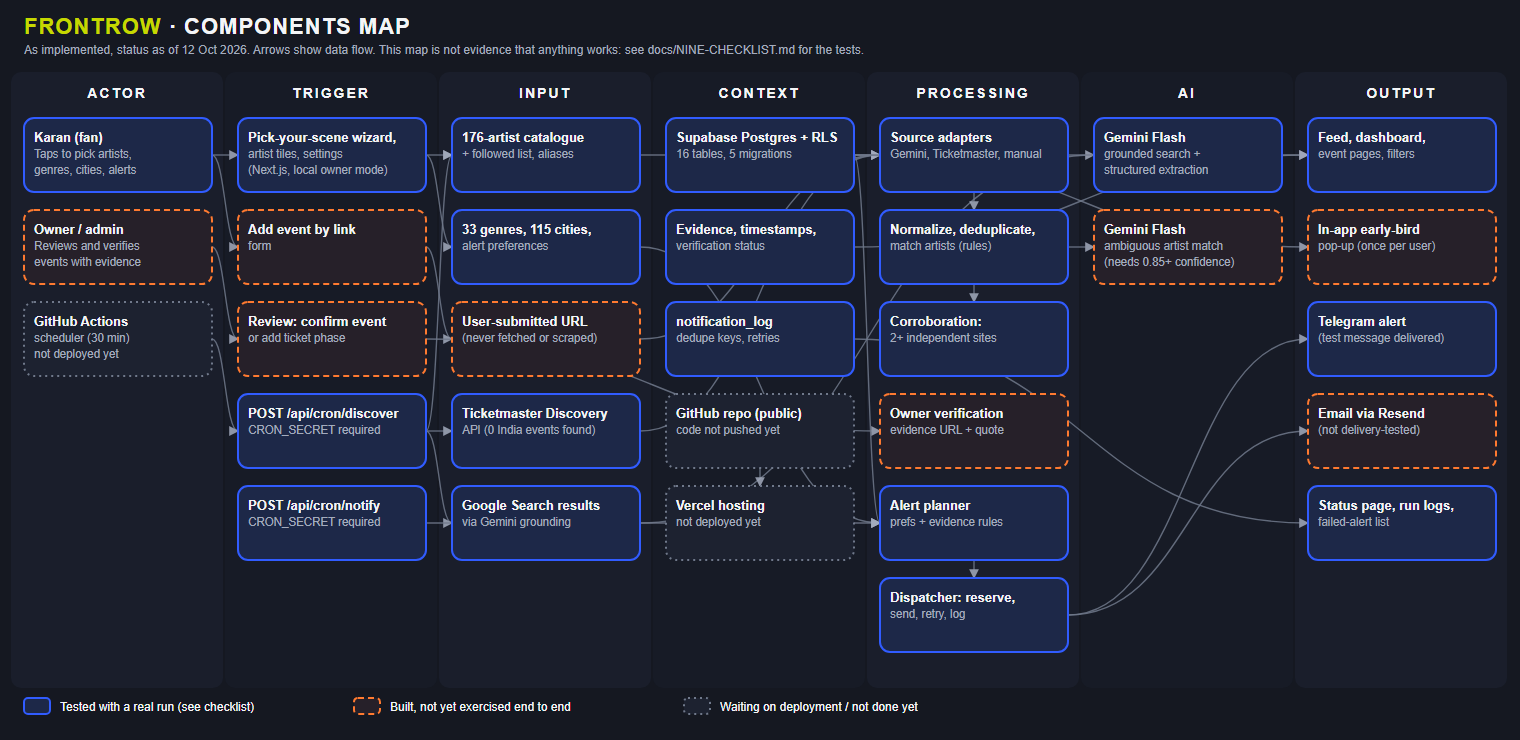
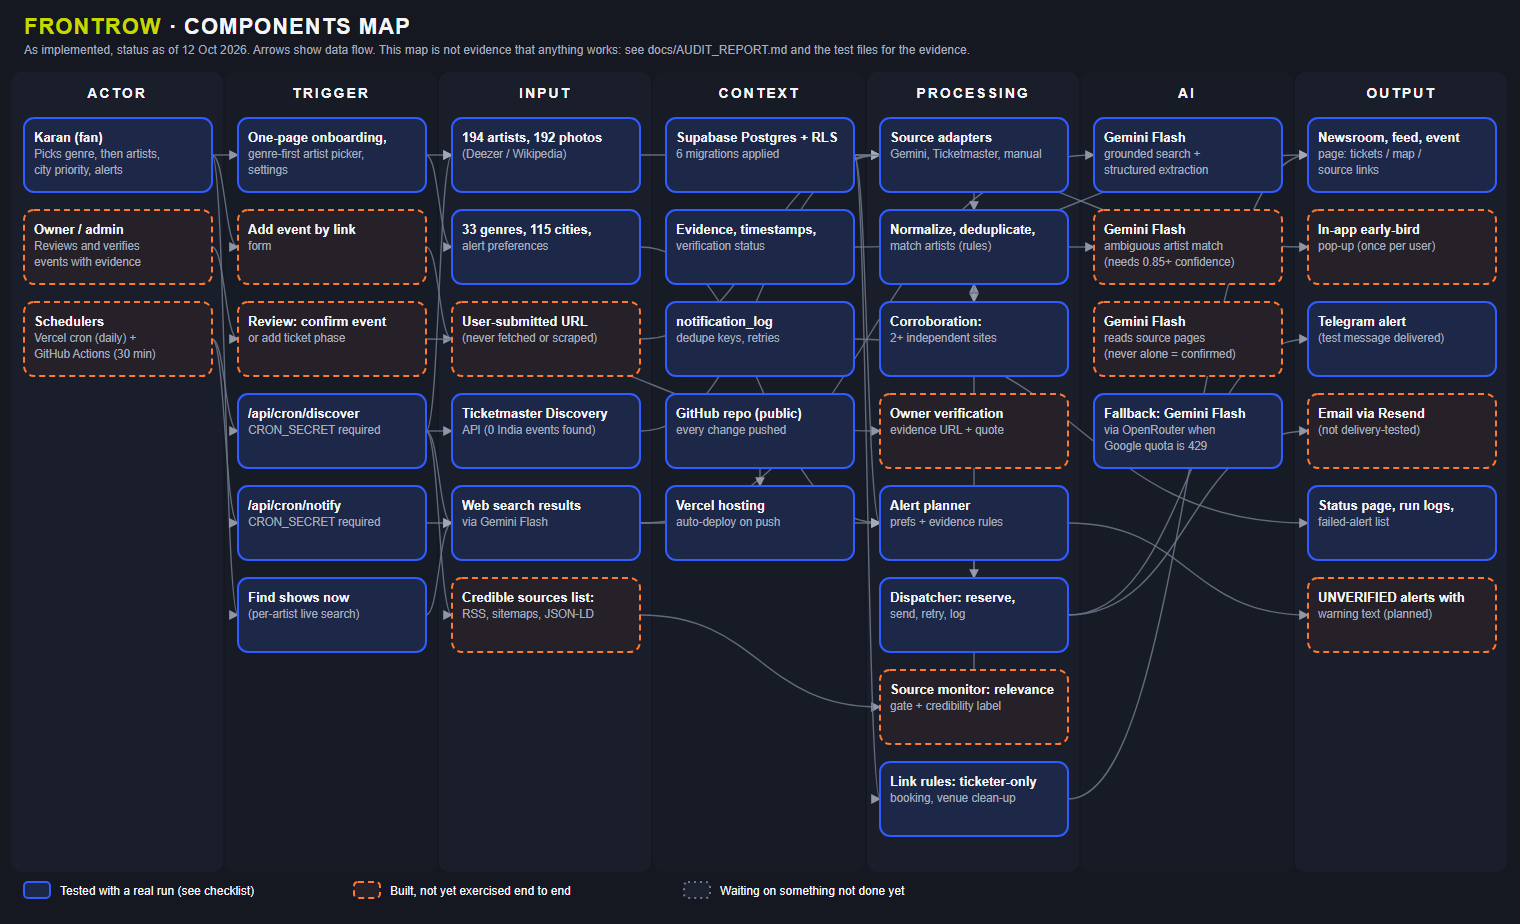
Light theme, unverified-show alerts, tick endpoint, calendar and share, refreshed map

diff --git a/src/app/globals.css b/src/app/globals.css
@@ -13,6 +13,33 @@
   --slate: #70798b;
   --slate-text: #a3abbd; /* slate lightened for small text contrast (AA on charcoal) */
   --line: #272c3a;
+  --ink: #0c0e13; /* dark text for use ON lime/orange, the same in both themes */
+}
+
+/* Light theme: chosen with the toggle, or by the device when nothing is chosen. */
+:root[data-theme="light"] {
+  --charcoal: #f7f5ef;
+  --surface: #ffffff;
+  --surface-2: #ece9e0;
+  --cobalt-soft: #2447d8;
+  --offwhite: #14171f;
+  --slate: #5a6275;
+  --slate-text: #4b5365;
+  --line: #d8d4c8;
+  color-scheme: light;
+}
+@media (prefers-color-scheme: light) {
+  :root:not([data-theme="dark"]) {
+    --charcoal: #f7f5ef;
+    --surface: #ffffff;
+    --surface-2: #ece9e0;
+    --cobalt-soft: #2447d8;
+    --offwhite: #14171f;
+    --slate: #5a6275;
+    --slate-text: #4b5365;
+    --line: #d8d4c8;
+    color-scheme: light;
+  }
 }
 
 @theme inline {
@@ -27,12 +54,14 @@
   --color-slate: var(--slate);
   --color-slate-text: var(--slate-text);
   --color-line: var(--line);
+  --color-ink: var(--ink);
   --font-sans: var(--font-body);
 }
 
 html {
   color-scheme: dark;
 }
+:root[data-theme="light"] body { background-image: none; }
 
 body {
   background: var(--charcoal);
@@ -65,7 +94,7 @@ h1, h2, h3, .display {
   .btn {
     @apply inline-flex min-h-9 items-center justify-center gap-2 rounded-xl px-4 text-sm font-semibold transition-colors disabled:cursor-not-allowed disabled:opacity-50;
   }
-  .btn-primary { @apply inline-flex min-h-9 items-center justify-center gap-2 rounded-full px-4 text-sm font-bold transition-colors disabled:cursor-not-allowed disabled:opacity-50 bg-lime text-charcoal hover:bg-[#d8ea1a]; }
+  .btn-primary { @apply inline-flex min-h-9 items-center justify-center gap-2 rounded-full px-4 text-sm font-bold transition-colors disabled:cursor-not-allowed disabled:opacity-50 bg-lime text-ink hover:bg-[#d8ea1a]; }
   .btn-ghost { @apply inline-flex min-h-9 items-center justify-center gap-2 rounded-full px-4 text-sm font-semibold transition-colors disabled:cursor-not-allowed disabled:opacity-50 border border-line bg-transparent text-offwhite hover:bg-surface2; }
   .btn-danger { @apply inline-flex min-h-9 items-center justify-center gap-2 rounded-full px-4 text-sm font-semibold transition-colors disabled:cursor-not-allowed disabled:opacity-50 border border-orange/50 bg-transparent text-orange hover:bg-orange/10; }
 
@@ -77,7 +106,7 @@ h1, h2, h3, .display {
   .chip {
     @apply inline-flex min-h-8 cursor-pointer items-center rounded-full border border-line px-3 text-[13px] transition-colors;
   }
-  .chip:has(input:checked) { @apply border-lime bg-lime font-semibold text-charcoal; }
+  .chip:has(input:checked) { @apply border-lime bg-lime font-semibold text-ink; }
   .chip:has(input:focus-visible) { outline: 3px solid var(--orange); outline-offset: 2px; }
   .chip input { @apply sr-only; }
 
@@ -85,7 +114,7 @@ h1, h2, h3, .display {
   .badge-verified { @apply inline-flex items-center gap-1 rounded-md px-2 py-0.5 text-xs font-bold uppercase tracking-wide bg-cobalt/20 text-cobalt-soft ring-1 ring-cobalt/50; }
   .badge-corroborated { @apply inline-flex items-center gap-1 rounded-md px-2 py-0.5 text-xs font-bold uppercase tracking-wide bg-surface2 text-offwhite ring-1 ring-slate; }
   .badge-pending { @apply inline-flex items-center gap-1 rounded-md px-2 py-0.5 text-xs font-bold uppercase tracking-wide bg-transparent ring-1 ring-line; color: var(--slate-text); }
-  .badge-urgent { @apply inline-flex items-center gap-1 rounded-md px-2 py-0.5 text-xs font-bold uppercase tracking-wide bg-orange text-charcoal; }
+  .badge-urgent { @apply inline-flex items-center gap-1 rounded-md px-2 py-0.5 text-xs font-bold uppercase tracking-wide bg-orange text-ink; }
   .badge-warn { @apply inline-flex items-center gap-1 rounded-md px-2 py-0.5 text-xs font-bold uppercase tracking-wide bg-transparent text-orange ring-1 ring-orange/60; }
 
   /* ticket-style event card with a perforated edge */
@@ -185,3 +214,8 @@ h1, h2, h3, .display {
 @keyframes intro-count { to { --pct: 100; } }
 @keyframes intro-out { to { opacity: 0; visibility: hidden; } }
 @media (prefers-reduced-motion: reduce) { .intro { display: none; } }
+/* lime text is unreadable on the light background: use a darker olive there */
+:root[data-theme="light"] .text-lime, :root[data-theme="light"] .mono.\!text-lime { color: #5f6900 !important; }
+@media (prefers-color-scheme: light) {
+  :root:not([data-theme="dark"]) .text-lime { color: #5f6900 !important; }
+}

diff --git a/src/app/events/[id]/page.tsx b/src/app/events/[id]/page.tsx
@@ -46,6 +46,12 @@ async function EventDetails({ params }: { params: Promise<{ id: string }> }) {
   const article = srcs.find((x) => x.url !== booking?.url) ?? null;
   const firstArtist = (e.event_artists as { artists: { name: string } | null }[]).map((a) => a.artists?.name).find(Boolean) ?? e.title;
   const q = (t: string) => encodeURIComponent(t);
+  const day = e.starts_at && e.date_precision !== "month" && e.date_precision !== "unknown" ? String(e.starts_at).slice(0, 10).replaceAll("-", "") : null;
+  const nextDay = day ? new Date(Date.UTC(+day.slice(0, 4), +day.slice(4, 6) - 1, +day.slice(6, 8) + 1)).toISOString().slice(0, 10).replaceAll("-", "") : null;
+  const ics = day && nextDay
+    ? "data:text/calendar;charset=utf-8," + encodeURIComponent(["BEGIN:VCALENDAR", "VERSION:2.0", "PRODID:-//FrontRow//EN", "BEGIN:VEVENT", `UID:${e.id}@frontrow`, `DTSTAMP:${new Date().toISOString().replace(/[-:]/g, "").slice(0, 15)}Z`, `DTSTART;VALUE=DATE:${day}`, `DTEND;VALUE=DATE:${nextDay}`, `SUMMARY:${firstArtist} (unconfirmed: check the source)`, `LOCATION:${[cleanVenue(e.venue), e.city].filter(Boolean).join(", ")}`, "END:VEVENT", "END:VCALENDAR"].join("\r\n"))
+    : null;
+  const share = `https://wa.me/?text=${q(`${firstArtist} in ${e.city ?? "India"} on ${d.full}${article ? " " + article.url : ""}`)}`;
   const artists = (e.event_artists as { artists: { name: string } | null }[]).map((a) => a.artists?.name).filter(Boolean).join(" + ");
   const phases = e.ticket_phases as {
     id: string; phase: string; starts_at: string | null; ends_at: string | null; price_text: string | null;
@@ -165,6 +171,8 @@ async function EventDetails({ params }: { params: Promise<{ id: string }> }) {
         <h2 id="nr" className="mb-3 text-2xl">News and reviews</h2>
         <p className="mb-3 text-sm muted">These open a search for you. They are searches, not claims: FrontRow has not read the results.</p>
         <div className="flex flex-wrap gap-2">
+          {ics && <a className="btn-ghost min-h-8 px-3.5" href={ics} download={`${firstArtist}.ics`}>Add to calendar</a>}
+          <a className="btn-ghost min-h-8 px-3.5" target="_blank" rel="noopener noreferrer" href={share}>Share on WhatsApp</a>
           <a className="btn-ghost min-h-8 px-3.5" target="_blank" rel="noopener noreferrer" href={`https://news.google.com/search?q=${q(firstArtist + " India concert")}`}>Latest news</a>
           <a className="btn-ghost min-h-8 px-3.5" target="_blank" rel="noopener noreferrer" href={`https://www.google.com/search?q=${q(firstArtist + " live India concert review")}`}>Concert reviews</a>
           <a className="btn-ghost min-h-8 px-3.5" target="_blank" rel="noopener noreferrer" href={`https://www.youtube.com/results?search_query=${q(firstArtist + " live India")}`}>Watch on YouTube</a>

diff --git a/src/lib/notify/messages.ts b/src/lib/notify/messages.ts
@@ -10,6 +10,7 @@ export interface AlertContext {
   dateLabel: string; // already formatted, or "Date not announced"
   verified: boolean;
   corroborated: boolean;
+  conflict?: boolean; // sources disagree: shown, never silently resolved
   ticketUrl: string | null;
   sourceLinks: { url: string; label: string }[];
   eventUrl: string | null; // app link, only when APP_BASE_URL is a public https URL
@@ -26,11 +27,14 @@ export interface ComposedAlert {
 
 const esc = (s: string) => s.replace(/&/g, "&amp;").replace(/</g, "&lt;").replace(/>/g, "&gt;").replace(/"/g, "&quot;");
 
+export const UNVERIFIED_WARNING = "Non-credible or unverified source. Please check the official ticketer or promoter before acting.";
+
 function certainty(c: AlertContext): string {
   if (c.kind === "test") return "TEST ALERT. This is a sample message, not a real concert.";
-  if (c.verified) return "Verified.";
-  if (c.corroborated) return "Reported by 2+ websites. Not confirmed by an official source: check the links before you decide.";
-  return "Unconfirmed. Check the links before you decide.";
+  const extra = c.conflict ? " Sources disagree on a detail: both versions are on the event page." : "";
+  if (c.verified) return `CONFIRMED by an official or credible source.${extra}`;
+  if (c.corroborated) return `LIKELY: reported by 2+ independent websites, not confirmed by the official ticketer or promoter. Check the links before you decide.${extra}`;
+  return `UNVERIFIED: ${UNVERIFIED_WARNING}${extra}`;
 }
 
 export function composeAlert(c: AlertContext): ComposedAlert {
@@ -56,7 +60,7 @@ export function composeAlert(c: AlertContext): ComposedAlert {
       break;
     default:
       headline = `NEW SHOW: ${c.artists}`;
-      subject = `New show: ${c.artists}${c.city ? ` in ${c.city}` : ""}${c.verified ? "" : " (not confirmed)"}`;
+      subject = `New show: ${c.artists}${c.city ? ` in ${c.city}` : ""}${c.verified ? "" : c.corroborated ? " (likely)" : " (unverified)"}`;
   }
 
   const lines: string[] = [c.title, `Where: ${where}`, `When: ${c.dateLabel}`];
@@ -67,6 +71,7 @@ export function composeAlert(c: AlertContext): ComposedAlert {
     lines.push(`Evidence: ${c.phase.evidenceUrl}`);
     if (c.phase.excerpt) lines.push(`Page says: "${c.phase.excerpt}"`);
   }
+  if (!c.phase && (c.kind === "new_concert" || c.kind === "status_change")) lines.push("Early bird: not stated by any source we read yet. We alert you if one is announced.");
   lines.push(certainty(c));
   if (c.ticketUrl) lines.push(`Tickets: ${c.ticketUrl}`);
   for (const s of c.sourceLinks.slice(0, 3)) lines.push(`Source (${s.label}): ${s.url}`);

diff --git a/src/app/api/cron/tick/route.ts b/src/app/api/cron/tick/route.ts
@@ -1,0 +1,49 @@
+import { NextResponse } from "next/server";
+import { runMonitor, sweepStale } from "@/lib/monitor/run";
+import { runDispatch } from "@/lib/notify/dispatch";
+import { createServiceClient } from "@/lib/supabase/service";
+
+// One 30-minute cycle: poll the credible sources, sweep stale shows, send alerts.
+// No secret is needed (so the GitHub workflow needs none), but the work is rate-limited: at most one run per 25 minutes,
+// whoever calls it. Extra calls return "skipped" without spending any AI credit.
+export const maxDuration = 300;
+const MIN_GAP_MS = 25 * 60_000;
+
+async function handle() {
+  const db = createServiceClient();
+  const { data: last } = await db.from("monitor_state").select("updated_at").eq("key", "tick").maybeSingle();
+  if (last && Date.now() - Date.parse(last.updated_at as string) < MIN_GAP_MS) {
+    const wait = Math.ceil((MIN_GAP_MS - (Date.now() - Date.parse(last.updated_at as string))) / 60000);
+    return NextResponse.json({ ok: true, skipped: "ran recently", next_run_possible_in_minutes: wait });
+  }
+  await db.from("monitor_state").upsert({ key: "tick", value: "running", updated_at: new Date().toISOString() });
+
+  const out: Record<string, unknown> = { ok: true };
+  try {
+    const m = await runMonitor(db, {
+      geminiApiKey: process.env.GEMINI_API_KEY ?? "",
+      geminiModel: process.env.GEMINI_MODEL || "gemini-flash-latest",
+      maxSources: 6, maxItemsPerSource: 6, maxAiPerRun: 6, budgetMs: 150_000,
+    });
+    const { perSource, ...rest } = m;
+    out.monitor = { ...rest, sources: perSource.length };
+  } catch (e) {
+    out.monitor = { error: String((e as Error).message).slice(0, 160) };
+  }
+  try {
+    out.swept_stale = await sweepStale(db);
+  } catch (e) {
+    out.swept_stale = { error: String((e as Error).message).slice(0, 160) };
+  }
+  try {
+    const { plan, ...d } = await runDispatch(db, {});
+    out.alerts = { ...d, planned: plan.length };
+  } catch (e) {
+    out.alerts = { error: String((e as Error).message).slice(0, 160) };
+  }
+  await db.from("monitor_state").upsert({ key: "tick", value: "done", updated_at: new Date().toISOString() });
+  return NextResponse.json(out);
+}
+
+export const GET = handle;
+export const POST = handle;

diff --git a/src/app/layout.tsx b/src/app/layout.tsx
@@ -18,7 +18,10 @@ export const metadata: Metadata = {
 
 export default function RootLayout({ children }: LayoutProps<"/">) {
   return (
-    <html lang="en" className={`${display.variable} ${body.variable} h-full antialiased`}>
+    <html lang="en" className={`${display.variable} ${body.variable} h-full antialiased`} suppressHydrationWarning>
+      <head>
+        <script dangerouslySetInnerHTML={{ __html: `try{var t=localStorage.getItem("frontrow-theme");if(!t&&window.matchMedia("(prefers-color-scheme: light)").matches)t="light";if(t)document.documentElement.dataset.theme=t}catch(e){}` }} />
+      </head>
       <body className="min-h-full flex flex-col">
         <div className="intro" aria-hidden="true">
           <div className="text-center">
@@ -26,7 +29,7 @@ export default function RootLayout({ children }: LayoutProps<"/">) {
             <p className="intro-count mt-6 inline-block" />
           </div>
         </div>
-        <a href="#main" className="sr-only focus:not-sr-only focus:absolute focus:left-2 focus:top-2 focus:z-50 focus:rounded focus:bg-orange focus:px-3 focus:py-2 focus:text-charcoal">
+        <a href="#main" className="sr-only focus:not-sr-only focus:absolute focus:left-2 focus:top-2 focus:z-50 focus:rounded focus:bg-orange focus:px-3 focus:py-2 focus:text-ink">
           Skip to content
         </a>
         <Suspense fallback={<header className="h-16 border-b border-line" />}>

diff --git a/src/lib/monitor/extract.ts b/src/lib/monitor/extract.ts
@@ -1,3 +1,4 @@
+import { generateJson, optsFromEnv } from "../ai/llm.ts";
 import { stripHtml } from "./feeds.ts";
 
 /** Facts pulled from one piece of content. Every field is null/false unless the content states it. */
@@ -91,18 +92,8 @@ export async function extractWithGemini(
   input: { title: string; text: string; published: string | null; url: string },
   opts: { apiKey: string; model?: string },
 ): Promise<Extracted> {
-  const model = opts.model ?? "gemini-flash-latest";
-  const res = await fetch(`https://generativelanguage.googleapis.com/v1beta/models/${model}:generateContent`, {
-    method: "POST",
-    headers: { "content-type": "application/json", "x-goog-api-key": opts.apiKey },
-    body: JSON.stringify({
-      contents: [{ parts: [{ text: PROMPT(input.title, input.text, input.published, input.url) }] }],
-      generationConfig: { responseMimeType: "application/json", temperature: 0 },
-    }),
-  });
-  if (!res.ok) throw new Error(`Gemini HTTP ${res.status}`);
-  const j = await res.json();
-  const raw = j?.candidates?.[0]?.content?.parts?.map((p: { text?: string }) => p.text ?? "").join("") ?? "";
+  const llm = { ...optsFromEnv(), googleKey: opts.apiKey, googleModel: opts.model ?? "gemini-flash-latest" };
+  const raw = await generateJson(PROMPT(input.title, input.text, input.published, input.url), llm);
   let o: Record<string, unknown>;
   try {
     o = JSON.parse(raw);

diff --git a/src/components/ThemeToggle.tsx b/src/components/ThemeToggle.tsx
@@ -1,0 +1,31 @@
+"use client";
+
+import { useSyncExternalStore } from "react";
+
+type Theme = "dark" | "light";
+
+const read = (): Theme => (document.documentElement.dataset.theme === "light" ? "light" : "dark");
+const subscribe = (cb: () => void) => {
+  const mo = new MutationObserver(cb);
+  mo.observe(document.documentElement, { attributes: true, attributeFilter: ["data-theme"] });
+  return () => mo.disconnect();
+};
+
+/** Light / dark switch. The choice is remembered in this browser; with no choice the device setting is used. */
+export function ThemeToggle() {
+  const theme = useSyncExternalStore(subscribe, read, () => "dark" as Theme);
+  const flip = () => {
+    const next: Theme = theme === "dark" ? "light" : "dark";
+    document.documentElement.dataset.theme = next;
+    try {
+      localStorage.setItem("frontrow-theme", next);
+    } catch {
+      /* private mode: the choice just lasts for this visit */
+    }
+  };
+  return (
+    <button type="button" onClick={flip} className="btn-ghost !min-h-8 !px-3 text-xs" aria-label={theme === "dark" ? "Switch to light theme" : "Switch to dark theme"}>
+      {theme === "dark" ? "Light" : "Dark"}
+    </button>
+  );
+}

diff --git a/src/app/page.tsx b/src/app/page.tsx
@@ -23,7 +23,7 @@ export default function DashboardPage() {
 async function Dashboard() {
   const user = await requireUser();
   const sb = await createClient();
-  const [events, { prefs }, runs, failedAlerts] = await Promise.all([
+  const [events, { prefs, notif }, runs, failedAlerts] = await Promise.all([
     loadFeedEvents(sb),
     loadPrefs(sb, user.id),
     loadRecentRuns(sb, 12),
@@ -47,6 +47,11 @@ async function Dashboard() {
 
   return (
     <div className="space-y-12">
+      <p className="text-sm muted" role="status">
+        Alerts: Telegram <strong className={notif.telegram_enabled ? "text-lime" : "text-orange"}>{notif.telegram_enabled && notif.telegram_chat_id ? "on" : "not set up"}</strong>
+        {" · "}Email <strong className={notif.email_enabled && notif.email_address ? "text-lime" : "text-orange"}>{notif.email_enabled && notif.email_address ? "on" : "not set up"}</strong>
+        {" · "}<Link href="/settings" className="underline underline-offset-2">Change</Link>
+      </p>
       <Newsroom upcoming={upcoming} followedIds={prefs.followedArtistIds} />
 
       <FindShows pending={pending} followedCount={prefs.followedArtistIds.length} />

diff --git a/src/lib/notify/plan.ts b/src/lib/notify/plan.ts
@@ -42,11 +42,15 @@ function channelsFor(u: NotifyUser) {
   return out;
 }
 
-/** Only evidence-backed information may trigger alerts: verified, or corroborated without conflict. */
-export function alertableEvent(e: FeedEvent): boolean {
+/**
+ * Who gets alerted about what. Every real, upcoming, non-rejected show alerts, labelled CONFIRMED / LIKELY / UNVERIFIED
+ * in the message (an unverified show carries the "check the official ticketer" warning). Samples never alert.
+ */
+export function alertableEvent(e: FeedEvent, now: Date = new Date()): boolean {
   if (e.is_sample) return false;
-  if (e.verification_status === "verified") return true;
-  return e.verification_status === "pending_verification" && e.corroborated && !e.has_conflict;
+  if (e.verification_status === "rejected" || e.verification_status === "stale") return false;
+  if (e.starts_at && new Date(e.starts_at).getTime() < now.getTime() - 24 * 3600 * 1000) return false; // already happened
+  return e.verification_status === "verified" || e.verification_status === "pending_verification" || e.verification_status === "cancelled";
 }
 
 export function planNotifications(args: {

diff --git a/src/components/ArtistPicker.tsx b/src/components/ArtistPicker.tsx
@@ -139,7 +139,7 @@ export function ArtistPicker({
                 <button type="button" aria-pressed={on} onClick={() => toggle(a.id)} className="group flex w-full flex-col items-center text-center" title={on ? `Unfollow ${a.name}` : `Follow ${a.name}`}>
                   <span className={`relative rounded-full p-[3px] transition ${on ? "bg-lime" : "bg-transparent group-hover:bg-line"}`}>
                     <Photo name={a.name} size={92} />
-                    {on && <span className="absolute -right-0.5 -top-0.5 grid size-5 place-items-center rounded-full bg-lime text-[11px] font-extrabold text-charcoal" aria-hidden="true">✓</span>}
+                    {on && <span className="absolute -right-0.5 -top-0.5 grid size-5 place-items-center rounded-full bg-lime text-[11px] font-extrabold text-ink" aria-hidden="true">✓</span>}
                   </span>
                   <span className="mt-2 line-clamp-2 text-xs font-semibold leading-tight">{a.name}</span>
                   <span className="mt-1 flex flex-wrap justify-center gap-1">

diff --git a/src/components/Nav.tsx b/src/components/Nav.tsx
@@ -4,6 +4,7 @@ import { getCurrentUser, isAdminUser } from "@/lib/auth";
 import { APP_NAME } from "@/lib/brand";
 import { isLocalOwnerMode } from "@/lib/local-mode";
 import { isTrialMode } from "@/lib/trial";
+import { ThemeToggle } from "./ThemeToggle";
 import { MenuOverlay, type MenuLink } from "./MenuOverlay";
 
 export async function Nav() {
@@ -47,6 +48,7 @@ export async function Nav() {
           )}
         </nav>
         <div className={user ? "" : "ml-auto"}>
+          <ThemeToggle />
           {user ? <MenuOverlay links={links} signOutAction={local ? undefined : signOut} email={user.email} /> : null}
         </div>
       </div>

diff --git a/src/components/CityPicker.tsx b/src/components/CityPicker.tsx
@@ -21,7 +21,7 @@ export function CityPicker({ initial, name = "cities", compact = false }: { init
     const i = order.indexOf(c);
     const on = i >= 0;
     return (
-      <button key={c} type="button" aria-pressed={on} onClick={() => toggle(c)} className={`chip ${on ? "!border-lime !bg-lime font-semibold !text-charcoal" : ""}`}>
+      <button key={c} type="button" aria-pressed={on} onClick={() => toggle(c)} className={`chip ${on ? "!border-lime !bg-lime font-semibold !text-ink" : ""}`}>
         {on && <span className="mr-1 text-[10px]">#{i + 1}</span>}{c}
       </button>
     );
